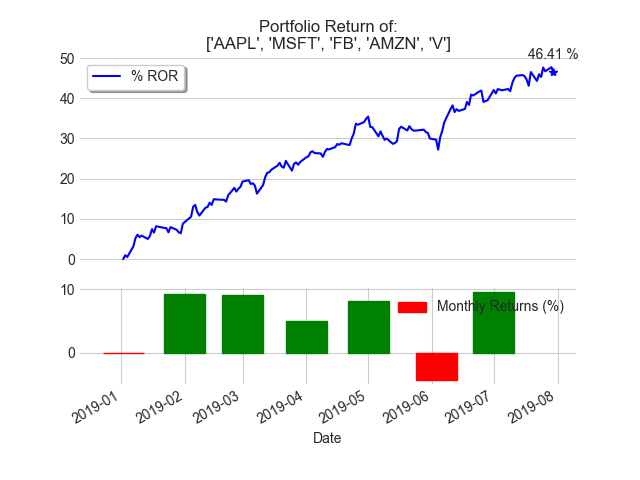
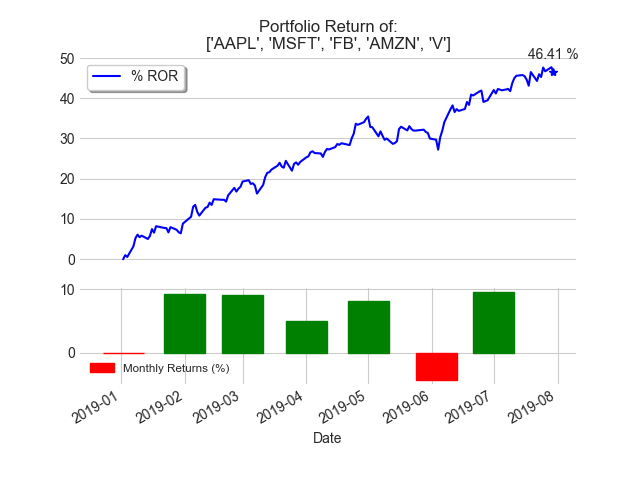
changes

Changed region(s): [[0.5938, 0.625, 0.875, 0.6562], [0.125, 0.75, 0.375, 0.7812]]

diff --git a/Market.py b/Market.py
@@ -96,7 +96,8 @@ def makeplot(portfolio, weightsdf, portfoliovalue_day, portfoliovalue_month):
     ax.spines['right'].set_visible(False)
     ax.spines['bottom'].set_visible(False)
     ax.spines['left'].set_visible(False)
-    legend = ax.legend(frameon=False, loc='best', shadow=True, fontsize='medium')
+    #legend = ax.legend(frameon=False, loc='best', shadow=True, fontsize='medium')
+    legend = ax.legend(frameon=False, loc='best', shadow=True, fontsize='small')
 
     plt.xticks(rotation=45)
     plt.xlabel('Date')
@@ -104,8 +105,8 @@ def makeplot(portfolio, weightsdf, portfoliovalue_day, portfoliovalue_month):
     #plt.ylim((0,100))
     plt.box(on=None)
     plt.gcf().autofmt_xdate()
-    plt.savefig('PNGPortfolio.png')
     #plt.legend()
+    plt.savefig('PNGPortfolio.png')
     plt.show()
 
     return 0
